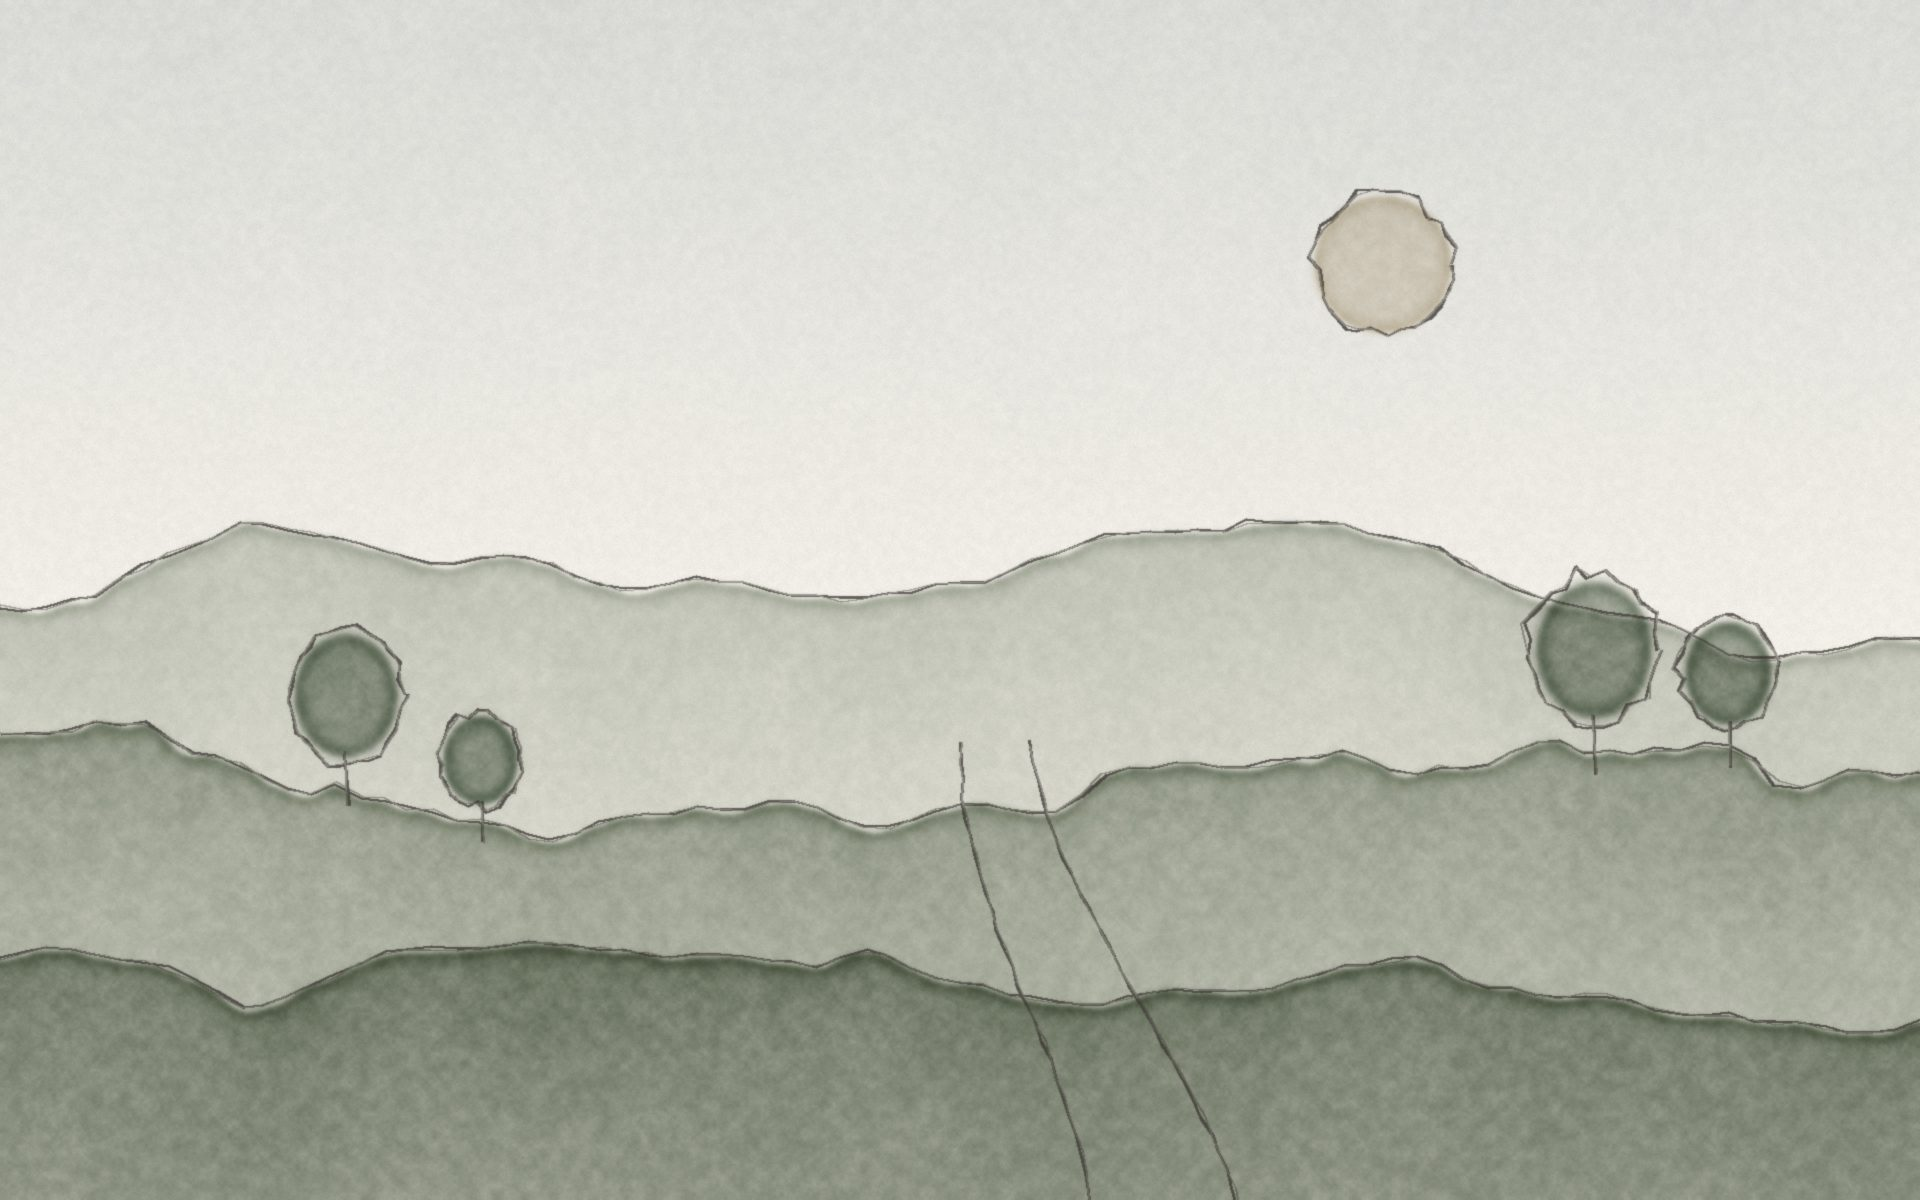
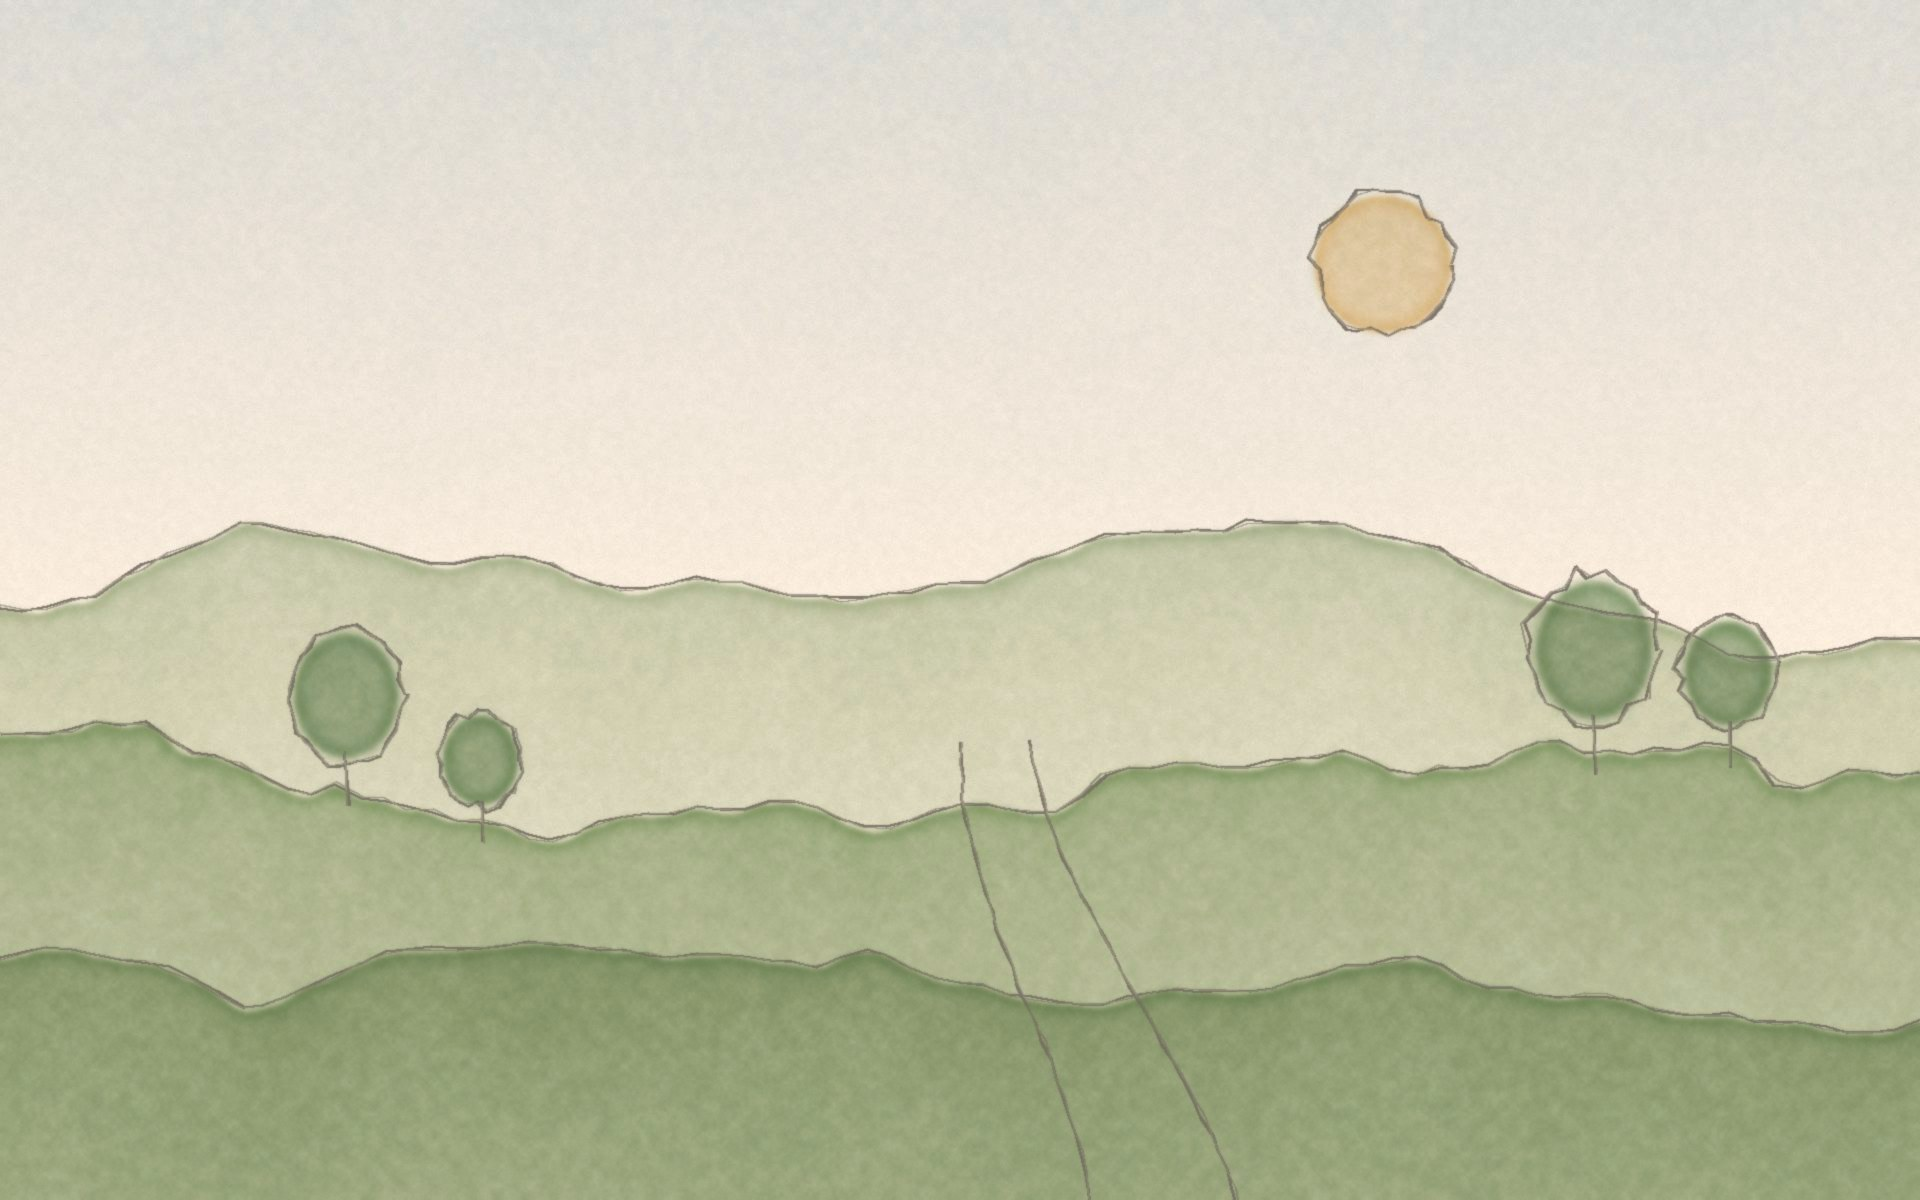
Calm the ink scene and brighten the first colour background
- The ink bloom no longer pins the page to the scroll; it plays once,
  softly, when the scene comes into view
- Replace the self-help lines with だったら、最初から入っていなければいい。
- Repaint the hills watercolour with fresher, lighter greens

Claude-Session: https://claude.ai/code/session_012c7GD41eqUoAVCy7QVxncQ

diff --git a/sumi-phone/script.js b/sumi-phone/script.js
@@ -132,7 +132,7 @@
     onScrollBg();
   }
 
-  // 色のシーン：白黒の紙に、外の光のような淡い緑がにじんで広がり、最初の色として淡く残る
+  // 色のシーン：白黒の紙に、淡い黄色がにじんで広がり、最初の色として淡く残る（画面に入ったら一度だけ）
   const ink = document.getElementById("ink");
   const reduce = window.matchMedia("(prefers-reduced-motion: reduce)").matches;
   if (ink && !reduce) {
@@ -164,9 +164,7 @@
       cx = tr.left - sr.left + tr.width / 2;
       cy = tr.top - sr.top + tr.height / 2;
     }
-    function render() {
-      const r = ink.getBoundingClientRect();
-      const p = clamp(-r.top / (r.height - window.innerHeight));
+    function render(p) {
       const R = Math.min(W, Hh) * 0.3;
       // 1. 一滴が落ちる
       const fall = ease(seg(p, 0.10, 0.26));
@@ -209,12 +207,26 @@
       line2.style.opacity = say2.toFixed(3);
       line2.style.transform = `translateY(${((1 - say2) * 10).toFixed(1)}px)`;
     }
-    let raf = 0;
-    const queue = () => { if (!raf) raf = requestAnimationFrame(() => { raf = 0; render(); }); };
-    window.addEventListener("scroll", queue, { passive: true });
-    window.addEventListener("resize", () => { measure(); queue(); });
-    if (document.fonts && document.fonts.ready) document.fonts.ready.then(() => { measure(); render(); });
-    measure(); render();
+    // スクロールで引っぱらず、画面に入ったら一度だけ、絵の具がにじむように流れる（約4秒）
+    const P0 = 0.24, P1 = 1, DUR = 4200;
+    let played = false, shown = P0;
+    const play = () => {
+      played = true;
+      const t0 = performance.now();
+      const step = (now) => {
+        const k = Math.min(1, (now - t0) / DUR);
+        shown = P0 + (P1 - P0) * k;
+        render(shown);
+        if (k < 1) requestAnimationFrame(step);
+      };
+      requestAnimationFrame(step);
+    };
+    new IntersectionObserver((es) => {
+      if (es[0].isIntersecting && !played) setTimeout(play, 900); // 最初の文を読む時間をおいてから
+    }, { threshold: 0.6 }).observe(stage);
+    window.addEventListener("resize", () => { measure(); render(shown); });
+    if (document.fonts && document.fonts.ready) document.fonts.ready.then(() => { measure(); render(shown); });
+    measure(); render(shown);
   }
 
   // 夜の部屋：真っ暗な中で、スマホの光だけが顔を照らす。画面が切り替わるたびに、光がちらちら変わる

diff --git a/sumi-phone/styles.css b/sumi-phone/styles.css
@@ -229,8 +229,8 @@ h2 .nw { white-space: nowrap; }
 .day-cap .day-time { display: block; font-family: var(--sans); font-size: 12px; letter-spacing: .4em; color: var(--paper-dim); }
 
 /* ---------- 白黒から色へ：黄色が紙からふわっと広がる（スクロールで進む） ---------- */
-.ink-scene { position: relative; height: 230vh; }
-.ink-stage { position: sticky; top: 0; height: 100vh; height: 100svh; overflow: hidden; display: grid; place-items: center; padding: 0 20px; }
+.ink-scene { position: relative; }
+.ink-stage { position: relative; height: 100vh; height: 100svh; overflow: hidden; display: grid; place-items: center; padding: 0 20px; }
 .ink-text { text-align: center; display: flex; flex-direction: column; align-items: center; gap: 1.2em; font-family: var(--serif); font-size: clamp(19px, 2.2vw, 28px); line-height: 2; will-change: opacity, filter; }
 .drawn-box { padding: .5em 1.4em; border: 1.5px solid var(--paper-ink); border-radius: 255px 18px 225px 18px / 18px 225px 18px 255px; }
 .ink-svg { position: absolute; inset: 0; width: 100%; height: 100%; pointer-events: none; }
@@ -240,7 +240,7 @@ h2 .nw { white-space: nowrap; }
 /* 落ちる一滴と飛び散る粒は描かない（滴が血に見えるという声があったため） */
 .ink-drop, .ink-splash { display: none; }
 .ink-line { position: absolute; left: 0; right: 0; top: 50%; text-align: center; display: flex; flex-direction: column; gap: 12px; font-family: var(--serif); font-size: clamp(22px, 2.6vw, 34px); letter-spacing: .12em; opacity: 0; }
-.ink-line2 { font-weight: 600; }
+.ink-line2 { font-weight: 500; }
 
 /* ---------- 5. 機能：絵で見せる ---------- */
 .inout-h { font-size: 12px; letter-spacing: .3em; color: var(--paper-dim); margin: 8px 0 18px; }
@@ -340,6 +340,7 @@ h2 .nw { white-space: nowrap; }
   .split { flex-direction: column; align-items: stretch; }
   .reserve-form { grid-template-columns: 1fr; }
   .flow { grid-template-columns: 1fr 1fr; }
+  .ink-line { letter-spacing: .05em; font-size: 20px; }
   .year-dots { gap: 2px; }
   .year-dots i { width: 4px; height: 4px; border-radius: 1px; }
   .flow strong { font-size: 16px; letter-spacing: .02em; }

diff --git a/sumi-phone/index.html b/sumi-phone/index.html
@@ -17,7 +17,7 @@
 <link rel="alternate" hreflang="en" href="en.html" />
 <!-- フォントはこのサイトから配信する（Google に閲覧者の情報を送らないため）。どれも SIL Open Font License -->
 <link rel="stylesheet" href="fonts/fonts.css" />
-<link rel="stylesheet" href="styles.css?v=20261013t" />
+<link rel="stylesheet" href="styles.css?v=20261013v" />
 </head>
 <body>
 <a class="skip" href="#main">本文へ移動</a>
@@ -172,7 +172,7 @@
     <div class="ink-stage">
       <div class="ink-text">
         <p>本当は、外に出たかった。</p>
-        <p id="ink-target">でも、制限をかけても、<br />結局、自分で外してしまう。</p>
+        <p id="ink-target">でも、制限をかけても、<br />自分で外してしまう。</p>
       </div>
       <svg class="ink-svg" aria-hidden="true">
         <defs>
@@ -196,7 +196,7 @@
         <g class="ink-splash"></g>
         <path class="ink-drop" d="M0,-26 C7,-12 12,-2 12,6 A12,12 0 0 1 -12,6 C-12,-2 -7,-12 0,-26 Z" />
       </svg>
-      <div class="ink-line"><p>意志で、がんばらなくていい。</p><p class="ink-line2">持つものを、変えればいい。</p></div>
+      <div class="ink-line"><p>だったら、</p><p class="ink-line2">最初から入っていなければいい。</p></div>
     </div>
   </section>
 
@@ -312,6 +312,6 @@
   </div>
 </footer>
 
-<script src="script.js?v=20261013t"></script>
+<script src="script.js?v=20261013v"></script>
 </body>
 </html>

diff --git a/sumi-phone/en.html b/sumi-phone/en.html
@@ -17,7 +17,7 @@
 <link rel="alternate" hreflang="en" href="en.html" />
 <!-- フォントはこのサイトから配信する（Google に閲覧者の情報を送らないため）。どれも SIL Open Font License -->
 <link rel="stylesheet" href="fonts/fonts.css" />
-<link rel="stylesheet" href="styles.css?v=20261013t" />
+<link rel="stylesheet" href="styles.css?v=20261013v" />
 </head>
 <body>
 <a class="skip" href="#main">Skip to content</a>
@@ -196,7 +196,7 @@
         <g class="ink-splash"></g>
         <path class="ink-drop" d="M0,-26 C7,-12 12,-2 12,6 A12,12 0 0 1 -12,6 C-12,-2 -7,-12 0,-26 Z" />
       </svg>
-      <div class="ink-line"><p>You don’t need more willpower.</p><p class="ink-line2">Just carry something different.</p></div>
+      <div class="ink-line"><p>So what if</p><p class="ink-line2">it just wasn’t there to begin with?</p></div>
     </div>
   </section>
 
@@ -310,6 +310,6 @@
   </div>
 </footer>
 
-<script src="script.js?v=20261013t"></script>
+<script src="script.js?v=20261013v"></script>
 </body>
 </html>

diff --git a/sumi-phone/privacy.html b/sumi-phone/privacy.html
@@ -6,7 +6,7 @@
 <title>プライバシーポリシー｜Soto Phone</title>
 <meta name="description" content="Soto Phone のプライバシーポリシー。集める情報、使う目的、Cookie、配信停止と削除の方法。" />
 <link rel="stylesheet" href="fonts/fonts.css" />
-<link rel="stylesheet" href="styles.css?v=20261013t" />
+<link rel="stylesheet" href="styles.css?v=20261013v" />
 </head>
 <body class="legal-page">
 <a class="skip" href="#main">本文へ移動</a>

diff --git a/sumi-phone/privacy-en.html b/sumi-phone/privacy-en.html
@@ -6,7 +6,7 @@
 <title>Privacy Policy｜Soto Phone</title>
 <meta name="description" content="Soto Phone privacy policy: what we collect, why, cookies, and how to unsubscribe or delete your data." />
 <link rel="stylesheet" href="fonts/fonts.css" />
-<link rel="stylesheet" href="styles.css?v=20261013t" />
+<link rel="stylesheet" href="styles.css?v=20261013v" />
 </head>
 <body class="legal-page">
 <a class="skip" href="#main">Skip to content</a>

diff --git a/sumi-phone/terms.html b/sumi-phone/terms.html
@@ -6,7 +6,7 @@
 <title>利用規約・返金について｜Soto Phone</title>
 <meta name="description" content="Soto Phone の利用規約と、料金・返金についての方針。" />
 <link rel="stylesheet" href="fonts/fonts.css" />
-<link rel="stylesheet" href="styles.css?v=20261013t" />
+<link rel="stylesheet" href="styles.css?v=20261013v" />
 </head>
 <body class="legal-page">
 <a class="skip" href="#main">本文へ移動</a>

diff --git a/sumi-phone/terms-en.html b/sumi-phone/terms-en.html
@@ -6,7 +6,7 @@
 <title>Terms & Refunds｜Soto Phone</title>
 <meta name="description" content="Soto Phone terms of use and refund policy." />
 <link rel="stylesheet" href="fonts/fonts.css" />
-<link rel="stylesheet" href="styles.css?v=20261013t" />
+<link rel="stylesheet" href="styles.css?v=20261013v" />
 </head>
 <body class="legal-page">
 <a class="skip" href="#main">Skip to content</a>

diff --git a/sumi-phone/tools/gen_watercolor.py b/sumi-phone/tools/gen_watercolor.py
@@ -101,7 +101,7 @@ def save(img, name):
 
 # ---------------------------------------------------------------- scenes
 # 1. 丘：朝の丘と小道（いちばん淡い）
-def hills(sat=0.28):
+def hills(sat=0.7):  # 1枚目の水彩は、暗く見えないよう色を強めにし、生成後に暗い緑を少し明るく・黄緑寄りにしている
     img = paper_base()
     img = wash(img, np.clip(1 - YY / (H * 0.55), 0, 1), (150, 190, 225), 0.35, sat, 11, soft=20)
     img = wash(img, circle(W * 0.72, H * 0.22, 70), (245, 200, 120), 0.5, sat, 12)
